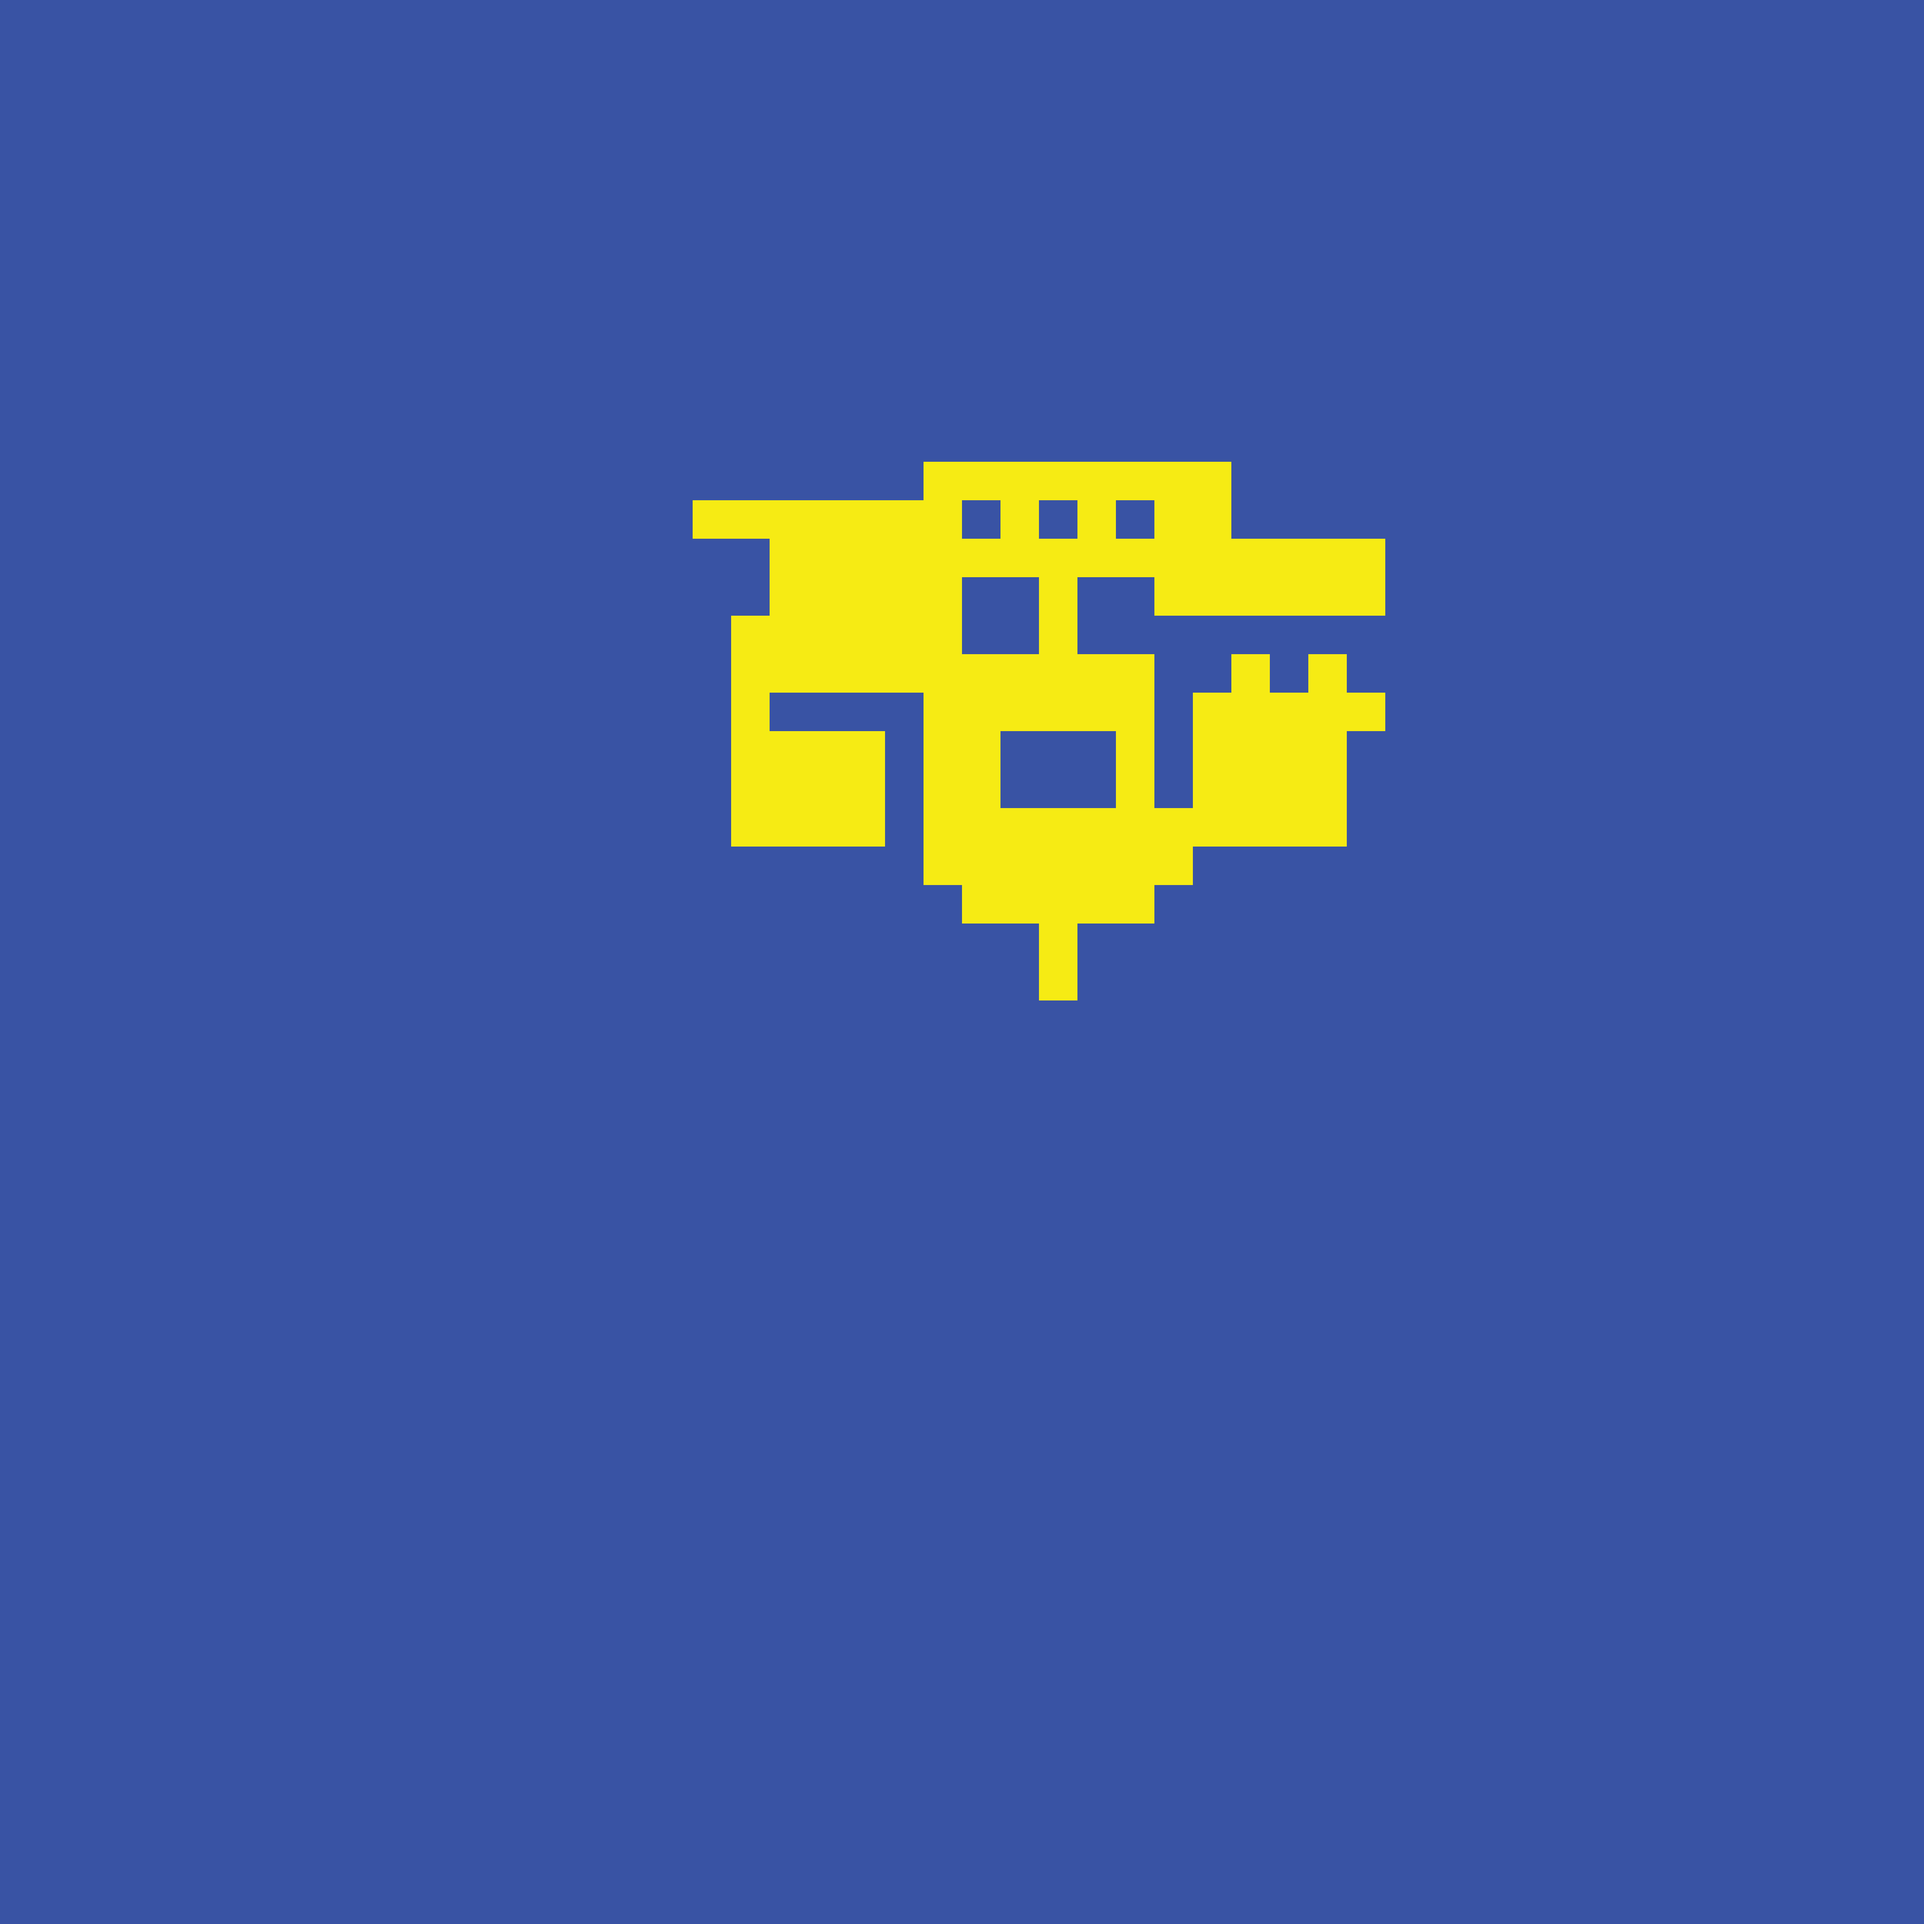
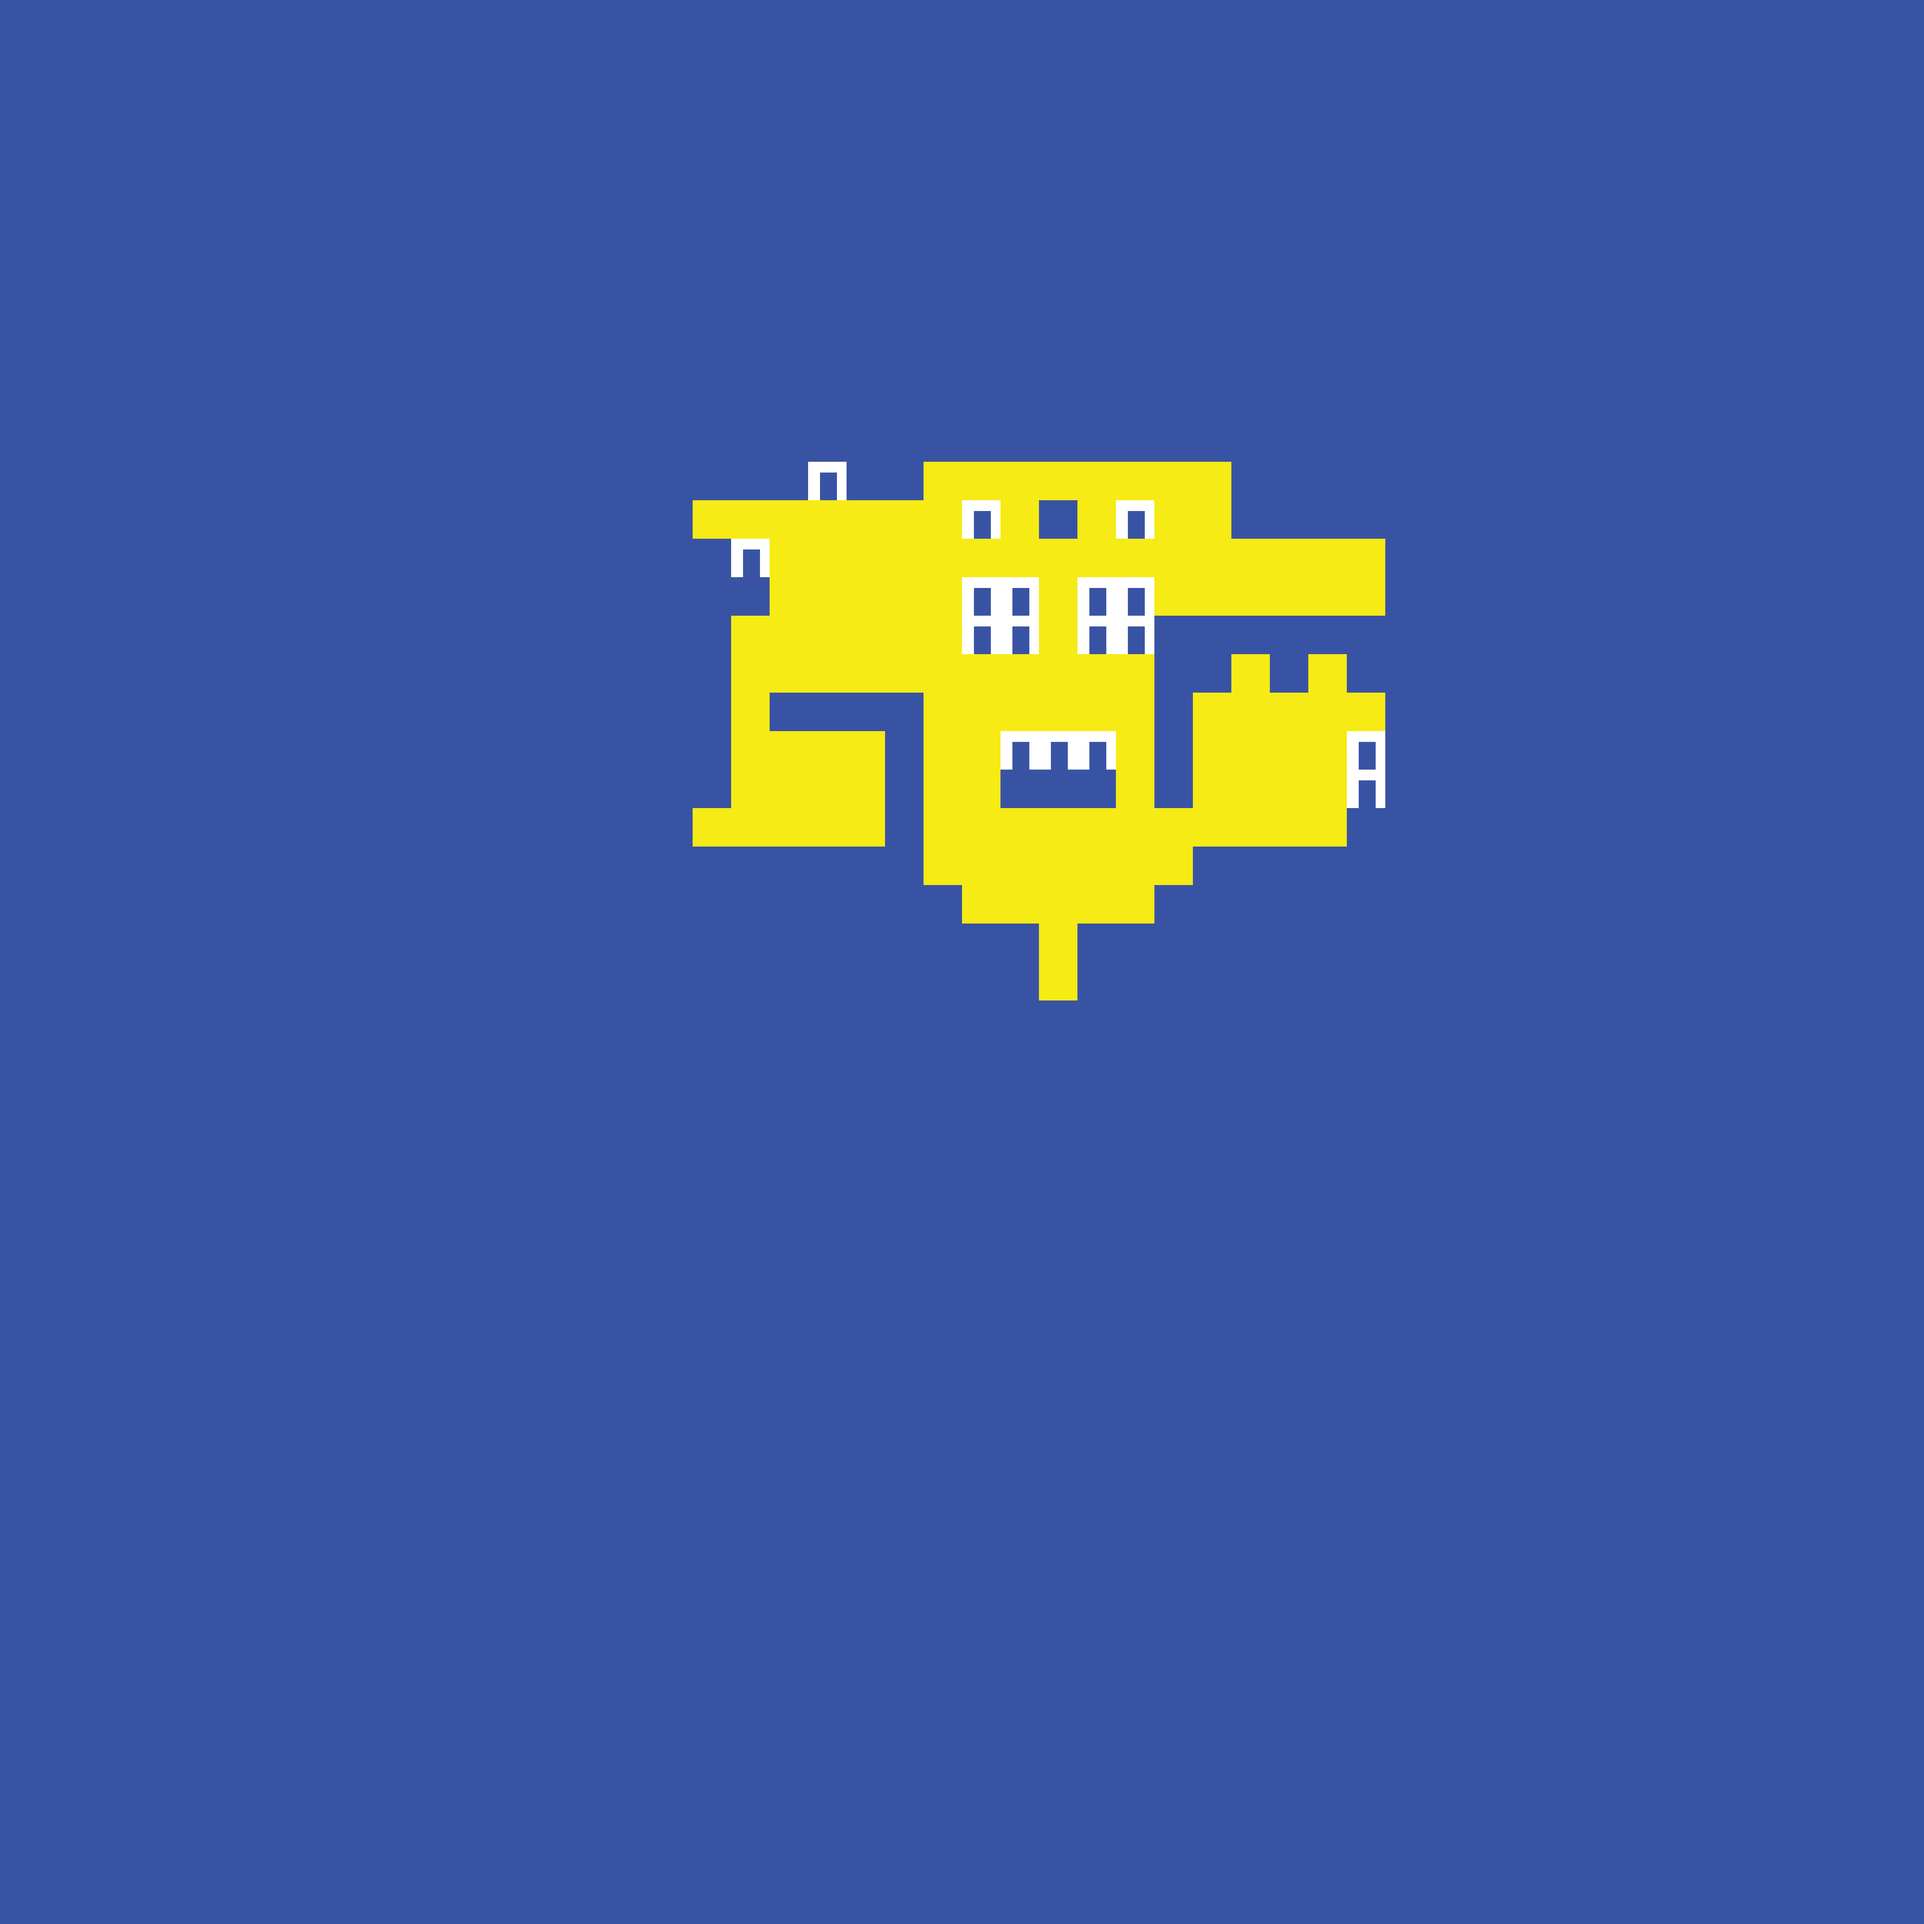
inventory and map

diff --git a/src/game/inventory/display_inventory.c b/src/game/inventory/display_inventory.c
@@ -15,6 +15,22 @@
 // - ((1007.5, 421.5) , (1083.5, 497.5))
 // - ((1098.5, 421.5) , (1174.5, 497.5))
 
+void drag_and_drop(rpg_t *rpg, int selected)
+{
+    sfVector2f ms_pos = sfRenderWindow_mapPixelToCoords(rpg->basic->wnd->my_wnd,
+    sfMouse_getPositionRenderWindow(rpg->basic->wnd->my_wnd), NULL);
+
+    ms_pos.x -= sfSprite_getGlobalBounds(
+    rpg->game->in_game->inventory->weapon[selected]).width / 2;
+    ms_pos.y -= sfSprite_getGlobalBounds(
+    rpg->game->in_game->inventory->weapon[selected]).height / 2;
+    sfSprite_setPosition(
+    rpg->game->in_game->inventory->weapon[selected], ms_pos);
+    sfRenderWindow_drawSprite(rpg->basic->wnd->my_wnd,
+    rpg->game->in_game->inventory->weapon[selected], NULL);
+    sfRenderWindow_setMouseCursorVisible(rpg->basic->wnd->my_wnd, FALSE);
+}
+
 void display_weapons(rpg_t *rpg)
 {
     sfVector2f *pos_wp = malloc(sizeof(sfVector2f) * 5);
@@ -31,30 +47,18 @@ void display_weapons(rpg_t *rpg)
         rpg->game->in_game->inventory->weapon[i], NULL);
     }
 }
-/*
-void detect_weapon(rpg_t *rpg, sfVector2f mouse)
-{
-    if (sfMouse_isButtonPressed(sfMouseLeft) == sfTrue) {
-        if (((rpg->basic->cnf->mouse.x) >= adapt_x(rpg, 825.5)) &&
-        ((rpg->basic->cnf->mouse.y) >= adapt_y(rpg, 421.5)) &&
-        (rpg->basic->cnf->mouse.x <= adapt_x(rpg, 901.5)) &&
-        (rpg->basic->cnf->mouse.y <= adapt_y(rpg, 497.5))) {
-            sfSprite_setPosition
-            (rpg->game->in_game->inventory->weapon[SMG], mouse);
-            if (mouse.x)
-        }
-    }
-}
+
+
 
 void detect_stuff(rpg_t *rpg)
 {
-    sfVector2f mouse = sfRenderWindow_mapPixelToCoords(rpg->basic->wnd->my_wnd,
-    sfMouse_getPositionRenderWindow(rpg->basic->wnd->my_wnd), NULL);
+    //sfVector2f mouse = sfRenderWindow_mapPixelToCoords(rpg->basic->wnd->my_wnd,
+    //sfMouse_getPositionRenderWindow(rpg->basic->wnd->my_wnd), NULL);
 
-    //detect_weapon(rpg, mouse);
+    detect_weapon(rpg);
     //detect_ammo(rpg);
     //detect_bulletproofvest(rpg);
-} */
+}
 
 void display_inventory(rpg_t *rpg)
 {
@@ -69,5 +73,5 @@ void display_inventory(rpg_t *rpg)
     rpg->menu->main_menu->new_game->characters[charac], NULL);
     move_characters(rpg, charac);
     display_weapons(rpg);
-    //detect_stuff(rpg);
+    detect_stuff(rpg);
 }

diff --git a/src/game/tutorial/tuto_map.c b/src/game/tutorial/tuto_map.c
@@ -24,6 +24,7 @@ void move_up_down_tuto_map(rpg_t *rpg)
     if (rpg->basic->evt->event.text.unicode ==
     (unsigned int)rpg->menu->stg->key_bnd->control[UP]->text[0]) {
         rpg->tutorial->map_pos.y += 3;
+        rpg->game->in_game->objects->car->car_pos.x += 3;
         sfSprite_setPosition(rpg->tutorial->map_tuto, rpg->tutorial->map_pos);
         rect_move_player(rpg, UP);
         rpg->game->in_game->map->last_pos = UP;
@@ -31,6 +32,7 @@ void move_up_down_tuto_map(rpg_t *rpg)
     if (rpg->basic->evt->event.text.unicode ==
     (unsigned int)rpg->menu->stg->key_bnd->control[DOWN]->text[0]) {
         rpg->tutorial->map_pos.y -= 3;
+        rpg->game->in_game->objects->car->car_pos.x -= 3;
         sfSprite_setPosition(rpg->tutorial->map_tuto, rpg->tutorial->map_pos);
         rect_move_player(rpg, DOWN);
         rpg->game->in_game->map->last_pos = DOWN;
@@ -42,6 +44,7 @@ void move_side_tuto_map(rpg_t *rpg)
     if (rpg->basic->evt->event.text.unicode ==
     (unsigned int)rpg->menu->stg->key_bnd->control[LEFT]->text[0]) {
         rpg->tutorial->map_pos.x += 3;
+        rpg->game->in_game->objects->car->car_pos.x += 3;
         sfSprite_setPosition(rpg->tutorial->map_tuto, rpg->tutorial->map_pos);
         rect_move_player(rpg, LEFT);
         rpg->game->in_game->map->last_pos = LEFT;
@@ -49,6 +52,7 @@ void move_side_tuto_map(rpg_t *rpg)
     if (rpg->basic->evt->event.text.unicode ==
     (unsigned int)rpg->menu->stg->key_bnd->control[RIGHT]->text[0]) {
         rpg->tutorial->map_pos.x -= 3;
+        rpg->game->in_game->objects->car->car_pos.x -= 3;
         sfSprite_setPosition(rpg->tutorial->map_tuto, rpg->tutorial->map_pos);
         rect_move_player(rpg, RIGHT);
         rpg->game->in_game->map->last_pos = RIGHT;

diff --git a/src/game/inventory/inventory_manager.c b/src/game/inventory/inventory_manager.c
@@ -1,0 +1,39 @@
+/*
+** EPITECH PROJECT, 2020
+** Visual Studio Live Share (Workspace)
+** File description:
+** inventory_manager.c
+*/
+
+#include "../../../include/func_name.h"
+
+void detect_weapon2(rpg_t *rpg)
+{
+    if (((rpg->basic->cnf->mouse.x) >= adapt_x(rpg, 1007.5)) &&
+    ((rpg->basic->cnf->mouse.y) >= adapt_y(rpg, 421.5)) &&
+    (rpg->basic->cnf->mouse.x <= adapt_x(rpg, 1083.5)) &&
+    (rpg->basic->cnf->mouse.y <= adapt_y(rpg, 497.5)))
+        drag_and_drop(rpg, GUN);
+    if (((rpg->basic->cnf->mouse.x) >= adapt_x(rpg, 1098.5)) &&
+    ((rpg->basic->cnf->mouse.y) >= adapt_y(rpg, 421.5)) &&
+    (rpg->basic->cnf->mouse.x <= adapt_x(rpg, 1174.5)) &&
+    (rpg->basic->cnf->mouse.y <= adapt_y(rpg, 497.5)))
+        drag_and_drop(rpg, TAZER);
+}
+
+void detect_weapon(rpg_t *rpg)
+{
+    if (sfMouse_isButtonPressed(sfMouseLeft) == sfTrue) {
+        if (((rpg->basic->cnf->mouse.x) >= adapt_x(rpg, 825.5)) &&
+        ((rpg->basic->cnf->mouse.y) >= adapt_y(rpg, 421.5)) &&
+        (rpg->basic->cnf->mouse.x <= adapt_x(rpg, 901.5)) &&
+        (rpg->basic->cnf->mouse.y <= adapt_y(rpg, 497.5)))
+            drag_and_drop(rpg, SMG);
+        if (((rpg->basic->cnf->mouse.x) >= adapt_x(rpg, 916.5)) &&
+        ((rpg->basic->cnf->mouse.y) >= adapt_y(rpg, 421.5)) &&
+        (rpg->basic->cnf->mouse.x <= adapt_x(rpg, 992.5)) &&
+        (rpg->basic->cnf->mouse.y <= adapt_y(rpg, 497.5)))
+            drag_and_drop(rpg, KNIFE);
+        detect_weapon2(rpg);
+    }
+}

diff --git a/src/parsing.c b/src/parsing.c
@@ -46,13 +46,9 @@ void parsing_menu2(rpg_t *rpg)
     if (rpg->menu->status == ON_TUTO) {
         sfSound_stop(rpg->menu->main_menu->menu_snd->a_menu);
         rpg->game->in_game->map->status = MAP_TUTO;
+        rpg->game->in_game->objects->car->car_pos.x = 300.0;
+        rpg->game->in_game->objects->car->car_pos.y = 300.0;
         tuto1(rpg);
-        if (sfKeyboard_isKeyPressed(sfKeyEscape))
-            rpg->menu->status = ON_MENU;
-    }
-    if (rpg->menu->status == ON_OPTION) {
-        background(rpg);
-        options(rpg);
         if (sfKeyboard_isKeyPressed(sfKeyEscape))
             rpg->menu->status = ON_MENU;
     }
@@ -60,6 +56,12 @@ void parsing_menu2(rpg_t *rpg)
 
 void parsing_menu3(rpg_t *rpg)
 {
+    if (rpg->menu->status == ON_OPTION) {
+        background(rpg);
+        options(rpg);
+        if (sfKeyboard_isKeyPressed(sfKeyEscape))
+            rpg->menu->status = ON_MENU;
+    }
     if (rpg->menu->status == ON_GAME) {
         sfRenderWindow_clear(rpg->basic->wnd->my_wnd, sfBlack);
         key_event_game(rpg);

diff --git a/src/game/inits/init_car.c b/src/game/inits/init_car.c
@@ -1,0 +1,36 @@
+/*
+** EPITECH PROJECT, 2021
+** init_car
+** File description:
+** init_car
+*/
+
+#include "../../../include/func_name.h"
+
+void print_car(rpg_t *rpg)
+{
+    sfSprite_setPosition(rpg->game->in_game->objects->car->car,
+    rpg->game->in_game->objects->car->car_pos);
+    sfRenderWindow_drawSprite(rpg->basic->wnd->my_wnd,
+    rpg->game->in_game->objects->car->car, NULL);
+}
+
+void init_rect_car(objects_t *obj)
+{
+    obj->car->rect_car.height = 365.7;
+    obj->car->rect_car.width = 365.7;
+    obj->car->rect_car.left = 0;
+    obj->car->rect_car.top = 0;
+    sfSprite_setTextureRect(obj->car->car, obj->car->rect_car);
+}
+
+void init_car_spt(rpg_t *rpg)
+{
+    sfTexture *car_tex = sfTexture_createFromFile
+    ("assets/perso/policecar.png", NULL);
+
+    rpg->game->in_game->objects->car->car = sfSprite_create();
+    sfSprite_setTexture(rpg->game->in_game->objects->car->car,
+    car_tex, sfTrue);
+    init_rect_car(rpg->game->in_game->objects);
+}

diff --git a/src/game/tutorial/actions_tuto.c b/src/game/tutorial/actions_tuto.c
@@ -1,0 +1,19 @@
+/*
+** EPITECH PROJECT, 2021
+** B-MUL-200-STG-2-1-myrpg-timothe.coniel
+** File description:
+** actions_tuto
+*/
+
+#include "../../../include/func_name.h"
+
+void end_tuto(rpg_t *rpg)
+{
+    sfVector2f tutorial_pos =
+    sfSprite_getPosition(rpg->game->in_game->map->collisions[MAP_TUTO]);
+
+    if (((tutorial_pos.x) >= adapt_x(rpg, -3703)) &&
+    ((tutorial_pos.y) >= adapt_y(rpg, -3118))) {
+        
+    }
+}

diff --git a/src/init_struct/alloc_game.c b/src/init_struct/alloc_game.c
@@ -37,5 +37,7 @@ int game_malloc2(rpg_t *rpg)
         return (MALLOC_ERROR);
     if ((rpg->game->in_game->map = malloc(sizeof(map_t))) == NULL)
         return (MALLOC_ERROR);
+    if ((rpg->game->in_game->objects->car = malloc(sizeof(car_t))) == NULL)
+        return (MALLOC_ERROR);
     return (0);
 }

diff --git a/include/func_name.h b/include/func_name.h
@@ -135,5 +135,10 @@ int my_strlen(char *str);
 void save_map(rpg_t *rpg);
 void load_save(rpg_t *rpg);
 int my_getnbr(char const *str);
+void init_car_spt(rpg_t *rpg);
+void print_car(rpg_t *rpg);
+
+void detect_weapon(rpg_t *rpg);
+void drag_and_drop(rpg_t *rpg, int selected);
 
 #endif /* !prototype */

diff --git a/include/game.h b/include/game.h
@@ -36,9 +36,18 @@ typedef struct ig_sound_s
 
 } ig_sound_t;
 
+typedef struct car_s
+{
+    sfSprite *car;
+    sfIntRect rect_car;
+    sfVector2f car_pos;
+} car_t;
+
+
 typedef struct objects_s
 {
     sfSprite **players;
+    car_t *car;
 } objects_t;
 
 typedef struct map_s

diff --git a/src/game/tutorial/actins_tuto.c b/src/game/tutorial/actins_tuto.c
@@ -1,0 +1,13 @@
+/*
+** EPITECH PROJECT, 2021
+** B-MUL-200-STG-2-1-myrpg-timothe.coniel
+** File description:
+** actins_tuto
+*/
+
+#include "../../../include/func_name.h"
+
+void end_tuto(rpg_t *rpg)
+{
+    
+}

diff --git a/src/game/tutorial/tuto.c b/src/game/tutorial/tuto.c
@@ -83,5 +83,7 @@ void tuto1(rpg_t *rpg)
             rpg->basic->cnf->clk->time_tutorial = 0;
         }
     }
+    if (rpg->tutorial->tutorial_stat >= 1)
+        print_car(rpg);
     tuto2(rpg);
 }

diff --git a/src/rpg.c b/src/rpg.c
@@ -32,6 +32,7 @@ void init_function2(rpg_t *rpg)
     init_cinematic1_audio(rpg);
     init_radio_spt(rpg);
     create_police_map(rpg);
+    init_car_spt(rpg);
 }
 
 int init_function(rpg_t *rpg)
